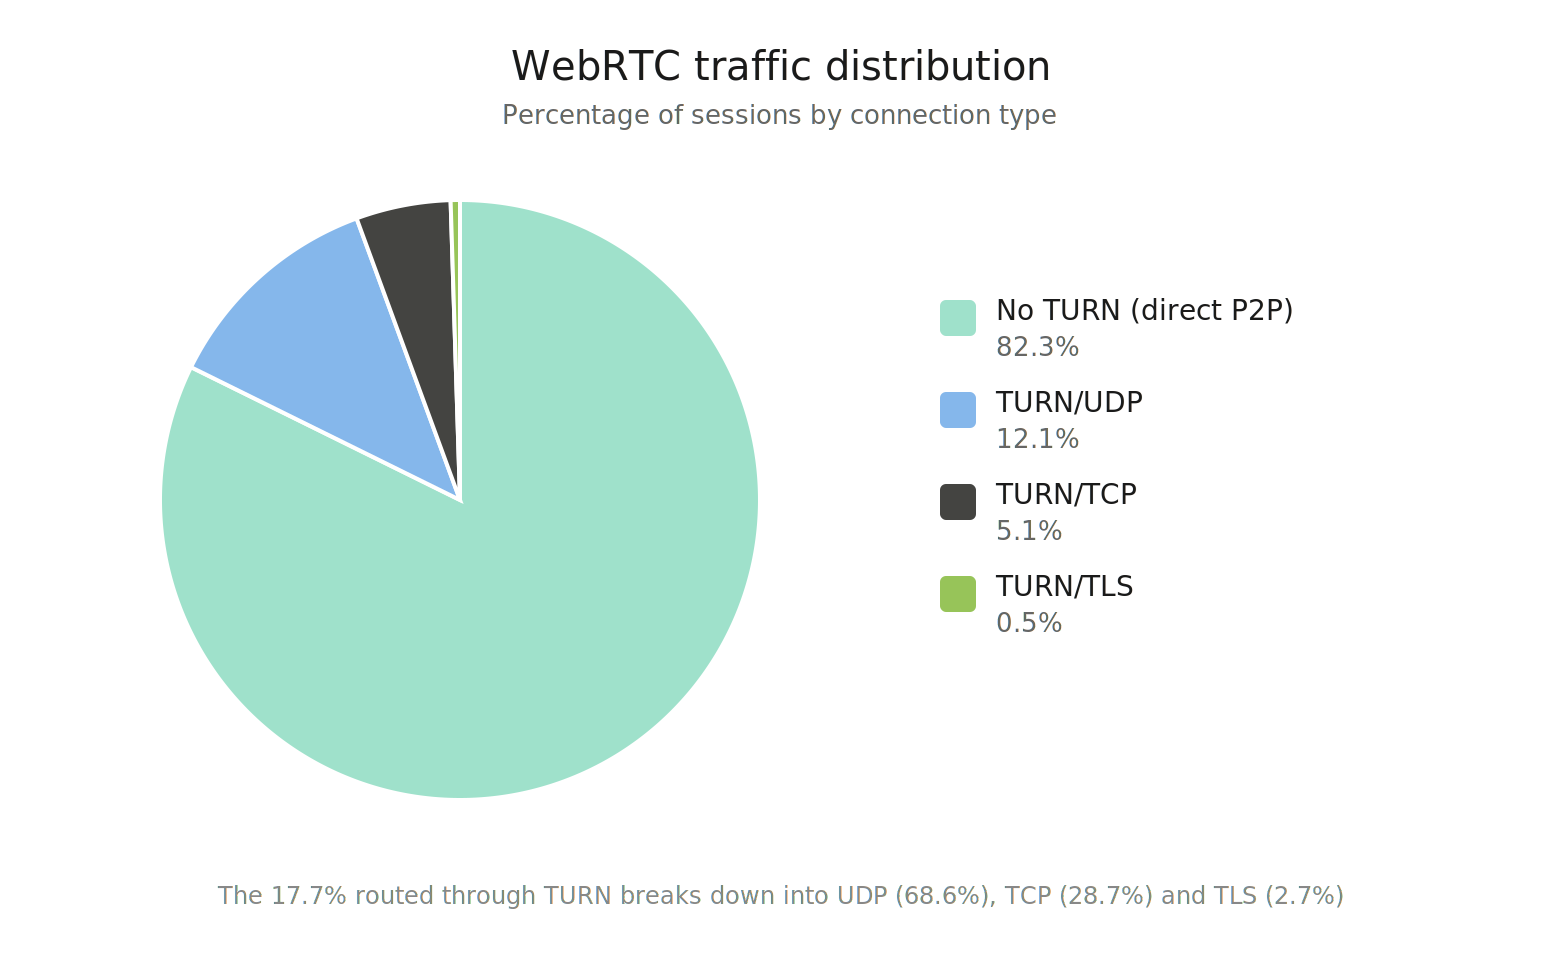
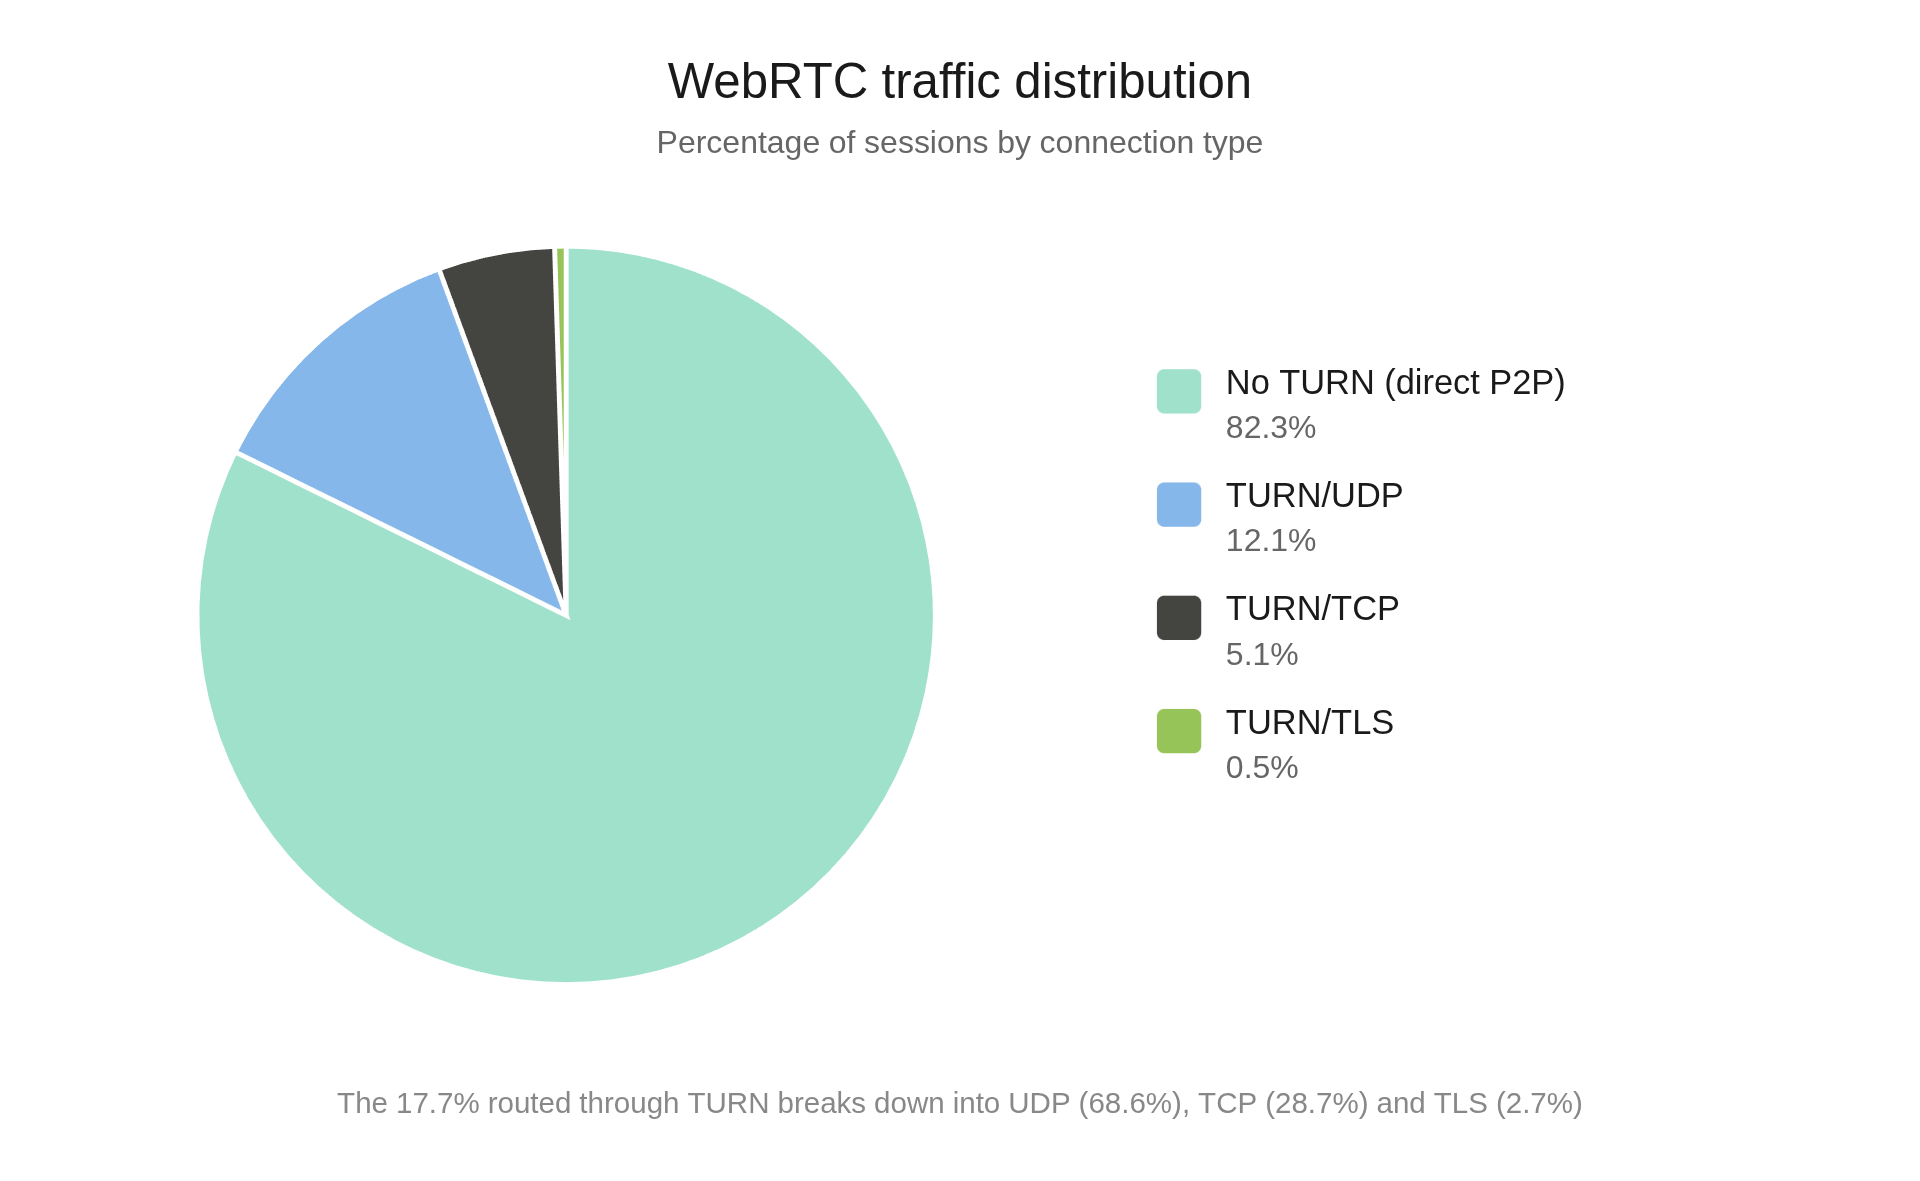
docs: update images and refine blog

diff --git a/docs/blog/posts/2026-04-24-turn-key-considerations.md b/docs/blog/posts/2026-04-24-turn-key-considerations.md
@@ -78,7 +78,7 @@ So, to solve all these problems, we would need:
 2. Transport support on port 443, both TCP/TLS and UDP.
 3. A system for managing TLS certificates and configuring them for TURN, or a reverse proxy to handle TLS termination and redirect traffic to TURN.
 4. An auto-scaling system that adds TURN servers as media servers are added.
-5. Security hardening by default, with UDP-only relay to peers, an allow-list of peer IPs to master and Media Node IPs, and restricting `min-port`/`max-port` to the configured media port range.
+5. Security hardening by default, with UDP-only relay to peers, an allow-list of peer IPs to Media Node IPs, and restricting the relay port range to the configured media port range. *(This is only relevant when there are media servers. The other four points apply even when everything is strictly P2P.)*
 
 All of these are possible to implement with coturn, but none are trivial, and most teams run into them in production. The good news is that OpenVidu already has them implemented, and not only that: OpenVidu's architecture makes TURN stop being a separate service you have to configure, and instead becomes a property of each Media Node. Let's see how.
 
@@ -98,19 +98,19 @@ OpenVidu exposes TURN on both UDP 443 and TCP 443 with TLS, so every user will b
 
 > 3) A system for managing TLS certificates and configuring them for TURN, or a reverse proxy to handle TLS termination and redirect traffic to TURN.
 
-OpenVidu uses Caddy as a reverse proxy to handle TLS termination and redirect traffic to Pion TURN server. Caddy automatically manages TLS certificates via Let's Encrypt, so there's no need for manual configuration or reloading of the TURN server when certificates renew. Also, Caddy server configured in Master Nodes handles demultiplexing HTTPS signaling traffic from TURN-TLS traffic, allowing both to share the same domain without interference. This setup ensures that TURN over TLS is available for users on restrictive networks while maintaining a seamless experience for all users using the same domain for both signaling and TURN services.
+OpenVidu uses Caddy as a reverse proxy to handle TLS termination and redirect traffic to Pion TURN server. Caddy automatically manages TLS certificates via Let's Encrypt or custom certificates, so there's no need for manual configuration or reloading of the TURN server when certificates renew. Also, Caddy server configured in Master Nodes handles demultiplexing HTTPS signaling traffic from TURN-TLS traffic, allowing both to share the same domain without interference. This setup ensures that TURN over TLS is available for users on restrictive networks while maintaining a seamless experience for all users using the same domain for both signaling and TURN services.
 
 > 4) An auto-scaling system that adds TURN servers as media servers are added.
 
 OpenVidu automatically scales TURN along with its Media Nodes. Since each Media Node includes TURN, adding a Media Node adds a TURN relay in the same step. The only particular case where this doesn't hold is with TURN over TLS, since Master Nodes handle demultiplexing HTTPS signaling traffic from TURN-TLS traffic, but considering that TURN-TLS traffic accounts for 0.5% of connections, the impact is minimal.
 
-> 5) Security hardening by default, with UDP-only relay to peers, an allow-list of peer IPs to master and Media Node IPs, and restricting `min-port`/`max-port` to the configured media port range.
+> 5) Security hardening by default, with UDP-only relay to peers, an allow-list of peer IPs to master and Media Node IPs, and restricting the relay port range to the configured media port range.
 
 At OpenVidu we've applied hardening recommendations while always keeping platform usability in mind. From Enable Security's recommendations[^2], we've applied the following:
 
 1. **Allow-list of IPs known by the cluster:** peer connections can only be made to IPs known by the cluster. If nodes have public IPs and are directly reachable from the internet, TURN servers will only be able to make peer connections to IPs within the cluster. If nodes are behind NAT, peer traffic is restricted to the cluster's private IPs.
 2. **To prevent the TCP-to-peer abuse vector**, peer traffic is restricted to UDP-only relay. By preventing the TURN server from establishing outgoing TCP connections to peers, the door is closed to an attacker using the relay as a TCP proxy toward internal services. This doesn't entirely prevent an attacker with valid credentials from abusing the infrastructure, but it drastically reduces the attack vector.
-3. **Restricting `min-port`/`max-port`.** In cases where OpenVidu is deployed in a NAT environment, the relay port range is restricted to the configured media port range, rather than the entire ephemeral space. This limits the attack vector to a specific port range, not all possible ports.
+3. **Restricting the relay port range.** In cases where OpenVidu is deployed in a NAT environment, the relay port range is restricted to the configured media port range, rather than the entire ephemeral space. This limits the attack vector to a specific port range, not all possible ports.
 4. **Credentials rotate every 24 hours by default**, and are generated using HMAC-SHA256, making them unpredictable and difficult to guess.
 
 ![OpenVidu TURN architecture](/assets/images/blog/turn-key-considerations/turn_openvidu.png "OpenVidu TURN architecture"){ width=80% }
@@ -119,7 +119,7 @@ At OpenVidu we've applied hardening recommendations while always keeping platfor
 
 TURN seems simple on paper and is complex in practice. The protocol is built with the express purpose of forwarding arbitrary packets to arbitrary destinations; scaling and operations are a problem, and achieving a good security level without breaking usability is complicated.
 
-The right abstraction, and the one OpenVidu uses, is to treat TURN not as a complementary service but as **another part of each node that handles media**: co-located, auto-scaled, hardened by default, and driven by ephemeral credentials. OpenVidu's deployment topology implements exactly that abstraction across Single Node, Elastic, and HA modes. With OpenVidu Platform and OpenVidu Meet you're already solving:
+The right abstraction, and the one OpenVidu uses, is to treat TURN not as a complementary service but as **another part of each node that handles media**: co-located, auto-scaled, hardened by default, and driven by ephemeral credentials. [OpenVidu's deployment topology](../../docs/self-hosting/deployment-types.md) implements exactly that abstraction across Single Node, Elastic, and HA modes. With [OpenVidu Platform](../../docs/self-hosting/deployment-types.md) and [OpenVidu Meet](../../meet/deployment/overview.md) you're already solving:
 
 - WebRTC abstraction and high-level API (like OpenVidu Meet) so you don't have to worry about signaling or media negotiation.
 - Integrated, auto-scaled, hardened-by-default TURN, so you don't have to worry about your users' connectivity.